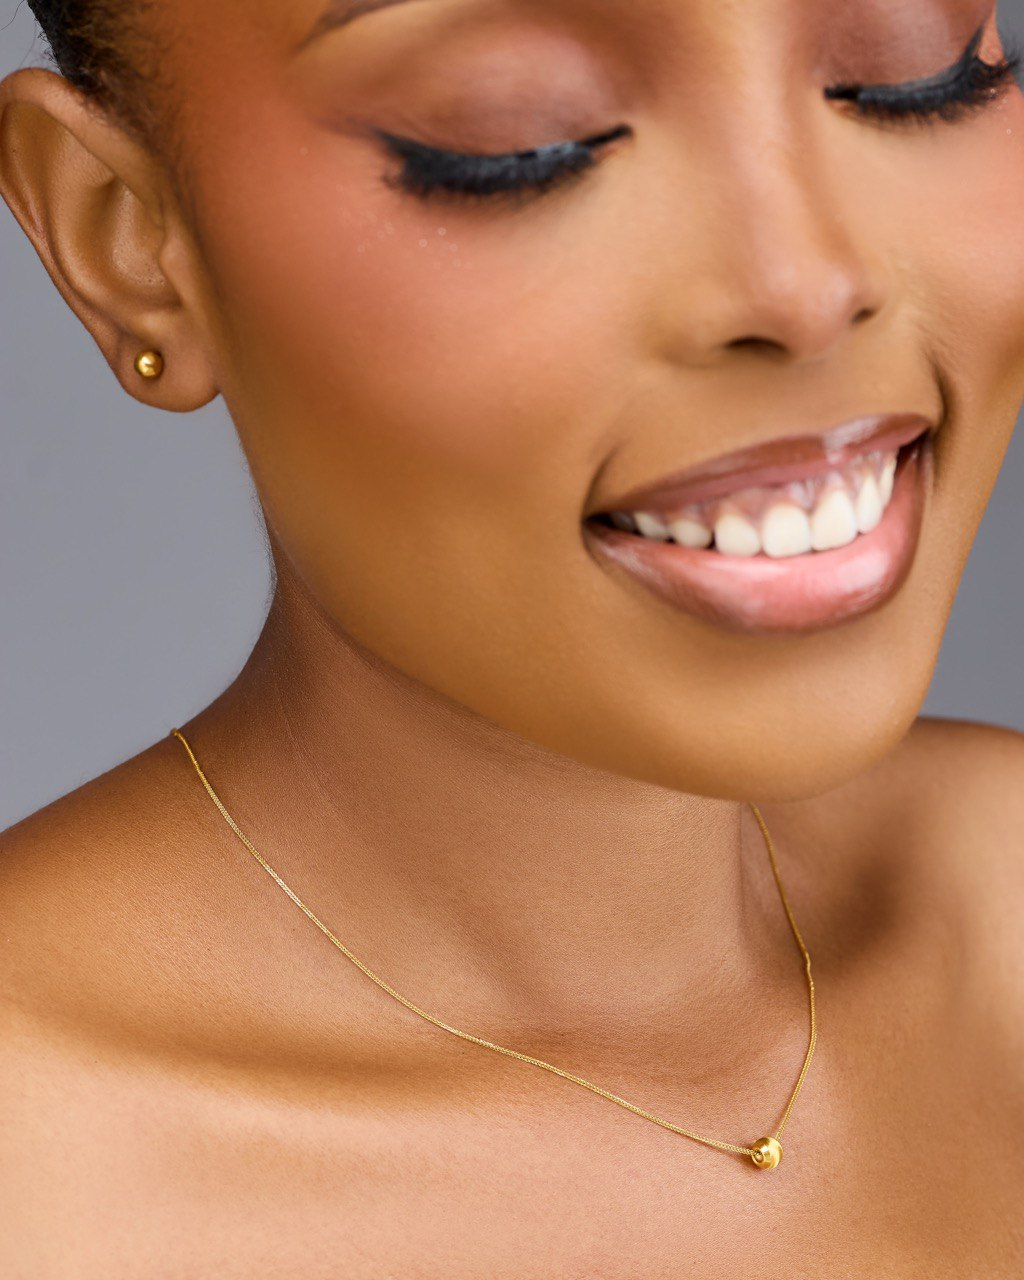
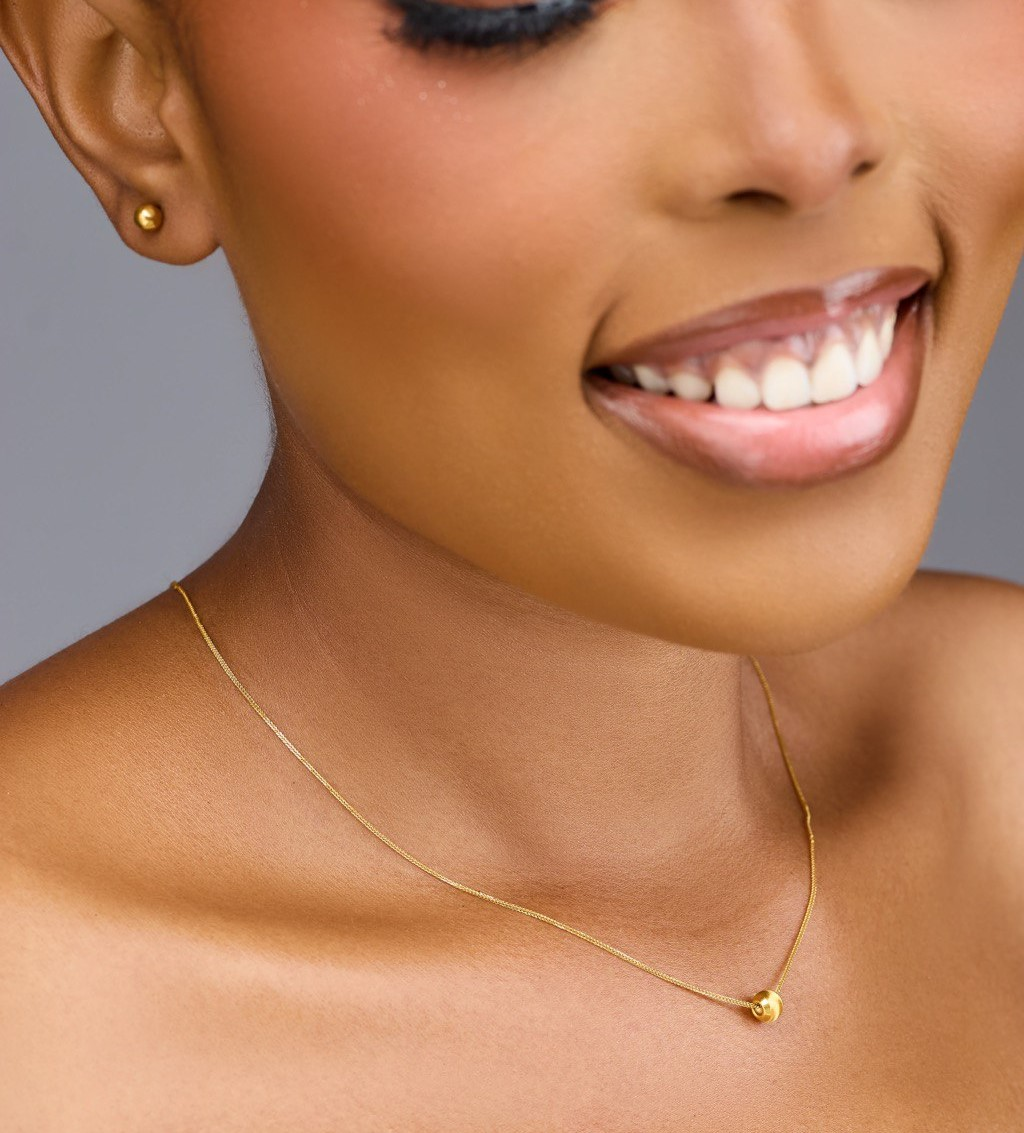
collection image

diff --git a/templates/collections.html b/templates/collections.html
@@ -19,13 +19,20 @@
     <section class="section fade-in" {% if forloop.counter|divisibleby:2 %}style="background: var(--ivory)"{% endif %}>
       <div class="container grid grid-2">
         {% if forloop.counter|divisibleby:2 %}
+        {% if collection.banner_image %}
         <img
-          src="{{ collection.image.url }}"
+          src="{{ collection.banner_image.url }}"
           alt="{{ collection.name }} styling"
           loading="lazy"
           data-lightbox-trigger
           style="width: 100%; height: 400px; object-fit: cover;"
         />
+        {% else %}
+        <!-- Placeholder or empty div if no image -->
+        <div style="width: 100%; height: 400px; background: #eee; display: flex; align-items: center; justify-content: center;">
+            <span style="color: #aaa;">No Image Available</span>
+        </div>
+        {% endif %}
         <div class="card">
           <h2 class="section-title">{{ collection.name }}</h2>
           <p>{{ collection.description }}</p>
@@ -37,13 +44,19 @@
           <p>{{ collection.description }}</p>
           <a class="btn btn-outline" href="{% url 'shop' %}?category={{ collection.slug }}">Shop {{ collection.name }}</a>
         </div>
+        {% if collection.banner_image %}
         <img
-          src="{{ collection.image.url }}"
+          src="{{ collection.banner_image.url }}"
           alt="{{ collection.name }} styling"
           loading="lazy"
           data-lightbox-trigger
           style="width: 100%; height: 400px; object-fit: cover;"
         />
+        {% else %}
+        <div style="width: 100%; height: 400px; background: #eee; display: flex; align-items: center; justify-content: center;">
+            <span style="color: #aaa;">No Image Available</span>
+        </div>
+        {% endif %}
         {% endif %}
       </div>
     </section>

diff --git a/templates/index.html b/templates/index.html
@@ -167,7 +167,7 @@
       <div class="container">
         <h2 class="section-title">Lumière Gallery</h2>
         <p class="section-subtitle">
-          A glimpse into our atelier moments, styled for an editorial finish.
+          A glimpse into the Kays Lumière world — where craftsmanship, intention, and quiet luxury come together.
         </p>
         <div class="grid grid-4 gallery" style="margin-top: 32px">
           <img
@@ -204,7 +204,7 @@
         <div>
           <h2 class="section-title">Stay in the Lumière</h2>
           <p class="section-subtitle">
-            Receive private previews, couture launches, and styling notes curated for you.
+            Be the first to receive private previews, limited releases, and intimate styling notes — curated exclusively for the Lumière woman.
           </p>
         </div>
         <form>
@@ -217,7 +217,7 @@
             aria-label="Email address"
             required
           />
-          <button class="btn btn-gold" type="submit">Join the List</button>
+          <button class="btn btn-gold" type="submit">Join the Lumière List</button>
         </form>
       </div>
     </section>
